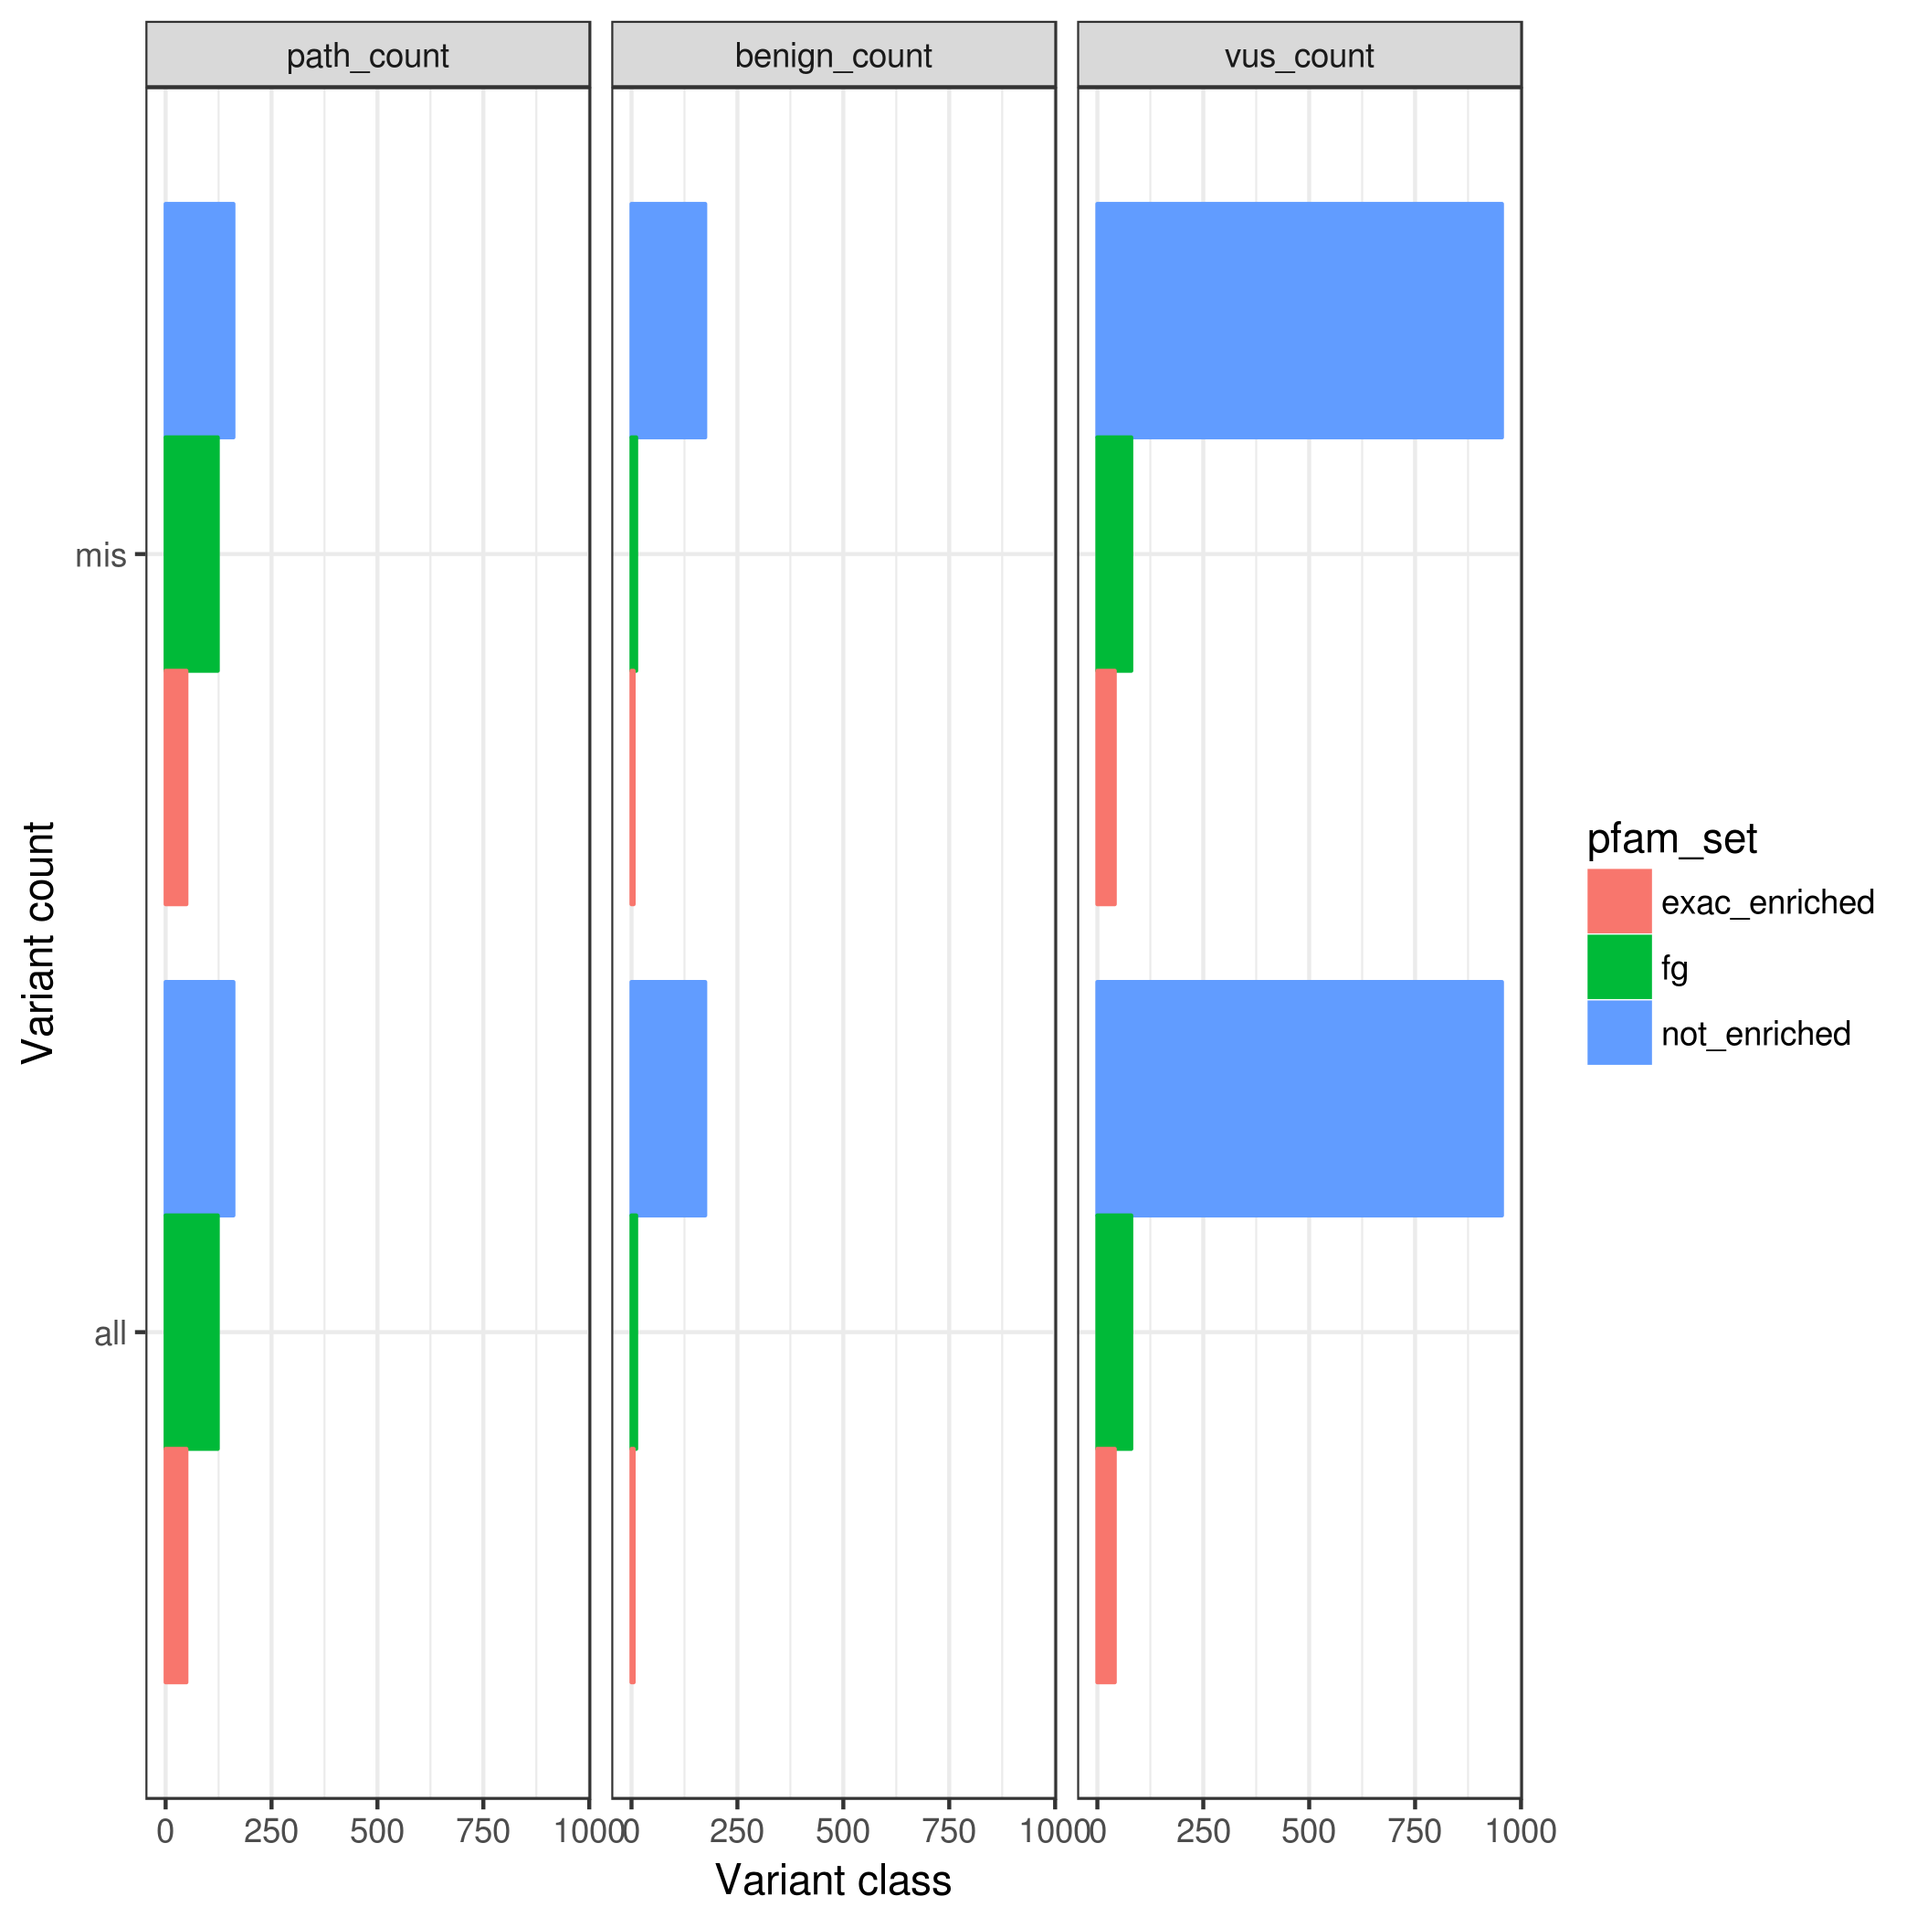
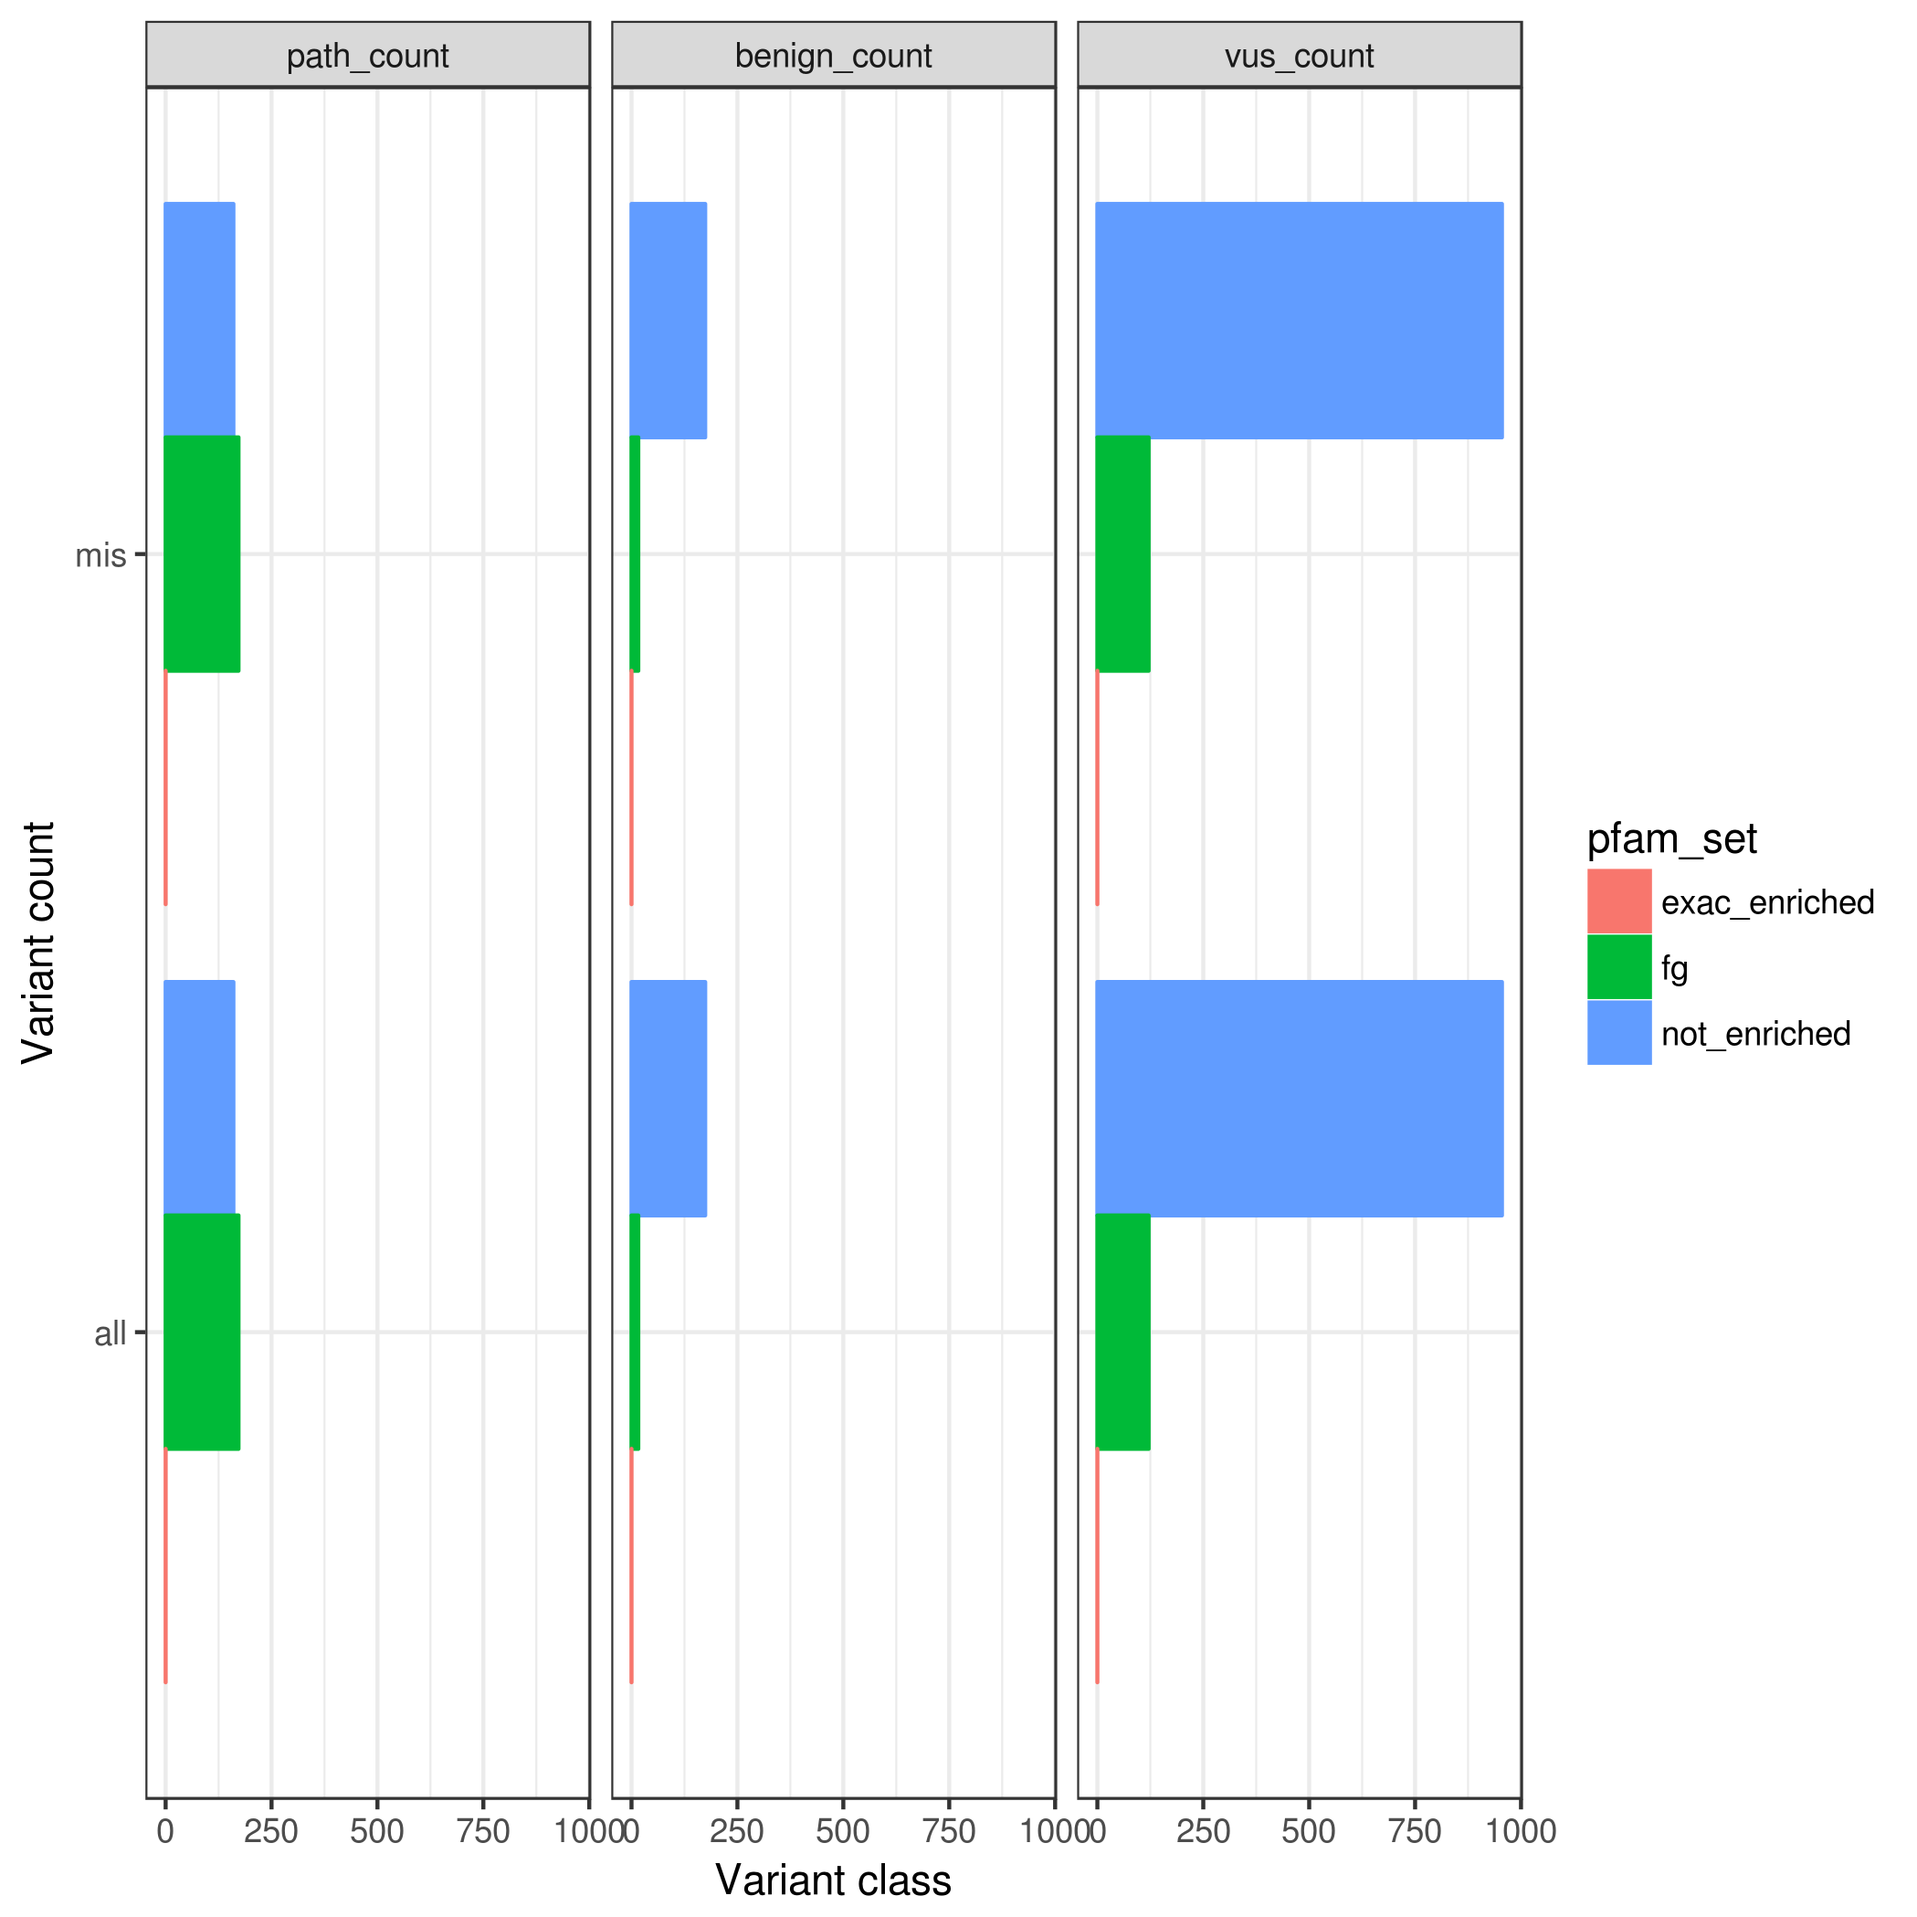
fix nans for merged pfam enrichment, and fix fill w/ 0 pvals for pfam enrichment

diff --git a/src/rules/sf_cmp.py b/src/rules/sf_cmp.py
@@ -54,9 +54,25 @@ rule flag_sig_domains:
         q_pfam_df.loc[:, 'pfamMerge'] = q_pfam_df.apply(lambda row: row['pfam'].split(':')[0], axis=1)
         q_pfamMerge_df = pandas.read_csv(input.q_pfamMerge, sep='\t', usecols=use_cols_pfamMerge).rename(columns=r_pfamMerge)
         df = pandas.read_csv(input.d, sep='\t')
-        m = pandas.merge(df, q_pfam_df, on=('gene', 'pfam'), how='left').fillna(0)
-        m2 = pandas.merge(m, q_pfamMerge_df, on=('gene', 'pfamMerge'), how='left')
-        m2.to_csv(output.o, index=False, sep='\t')
+
+        v = ('fg_gtr', 'pos_fam', 'fg_tot', 'ac', 'bg_tot')
+        use_cols_pfam = ['gene', 'pfam', 'pfamMerge'] + ['rare_' + wildcards.var + '_' + x + '_pfam' for x in v] + ['rarem_' + wildcards.var + '_' + x + '_pfam' for x in v]
+#        print(q_pfam_df.columns.values)
+        zero_cols = q_pfam_df[use_cols_pfam]
+        m = pandas.merge(df, zero_cols, on=('gene', 'pfam'), how='left').fillna(0)
+        one_cols = q_pfam_df[['gene', 'pfam', 'rare_' + wildcards.var + '_qval_pfam', 'rarem_' + wildcards.var + '_qval_pfam']]
+        m2 = pandas.merge(m, one_cols, on=('gene', 'pfam'), how='left').fillna(1)
+
+        v = ('fg_gtr', 'pos_fam', 'fg_tot', 'ac', 'bg_tot')
+        use_cols_pfam = ['gene', 'pfamMerge'] + ['rare_' + wildcards.var + '_' + x + '_pfamMerge' for x in v] + ['rarem_' + wildcards.var + '_' + x + '_pfamMerge' for x in v]
+        zero_cols = q_pfamMerge_df[use_cols_pfam]
+        m3 = pandas.merge(m2, zero_cols, on=('gene', 'pfamMerge'), how='left').fillna(0)
+
+        # print(m3.columns.values)
+        # print(one_cols
+        one_cols = q_pfamMerge_df[['gene', 'pfamMerge', 'rare_' + wildcards.var + '_qval_pfamMerge', 'rarem_' + wildcards.var + '_qval_pfamMerge']]
+        m4 = pandas.merge(m3, one_cols, on=('gene', 'pfamMerge'), how='left').fillna(1)
+        m4.to_csv(output.o, index=False, sep='\t')
 
 rule test_pathogenic_enrichment:
     input:  DATA + 'interim/sig_flagged/{eff}/EPIv6.eff.dbnsfp.anno.hHack.splitPfam.dat'
@@ -106,7 +122,7 @@ rule plot:
             PLOTS + '{limit}.var_counts_by_enrichment.{pfamMerge}.png'
     run:  
         shell('Rscript {SCRIPTS}plot_fracs.R {input} {output}')
-        if os.path.exists('Rplos.pdf'):
+        if os.path.exists('Rplots.pdf'):
             shell('rm Rplots.pdf')
 
 # DATA + 'interim/sig_flagged/EPIv6.eff.dbnsfp.anno.hHack.splitPfam.all.dat',
